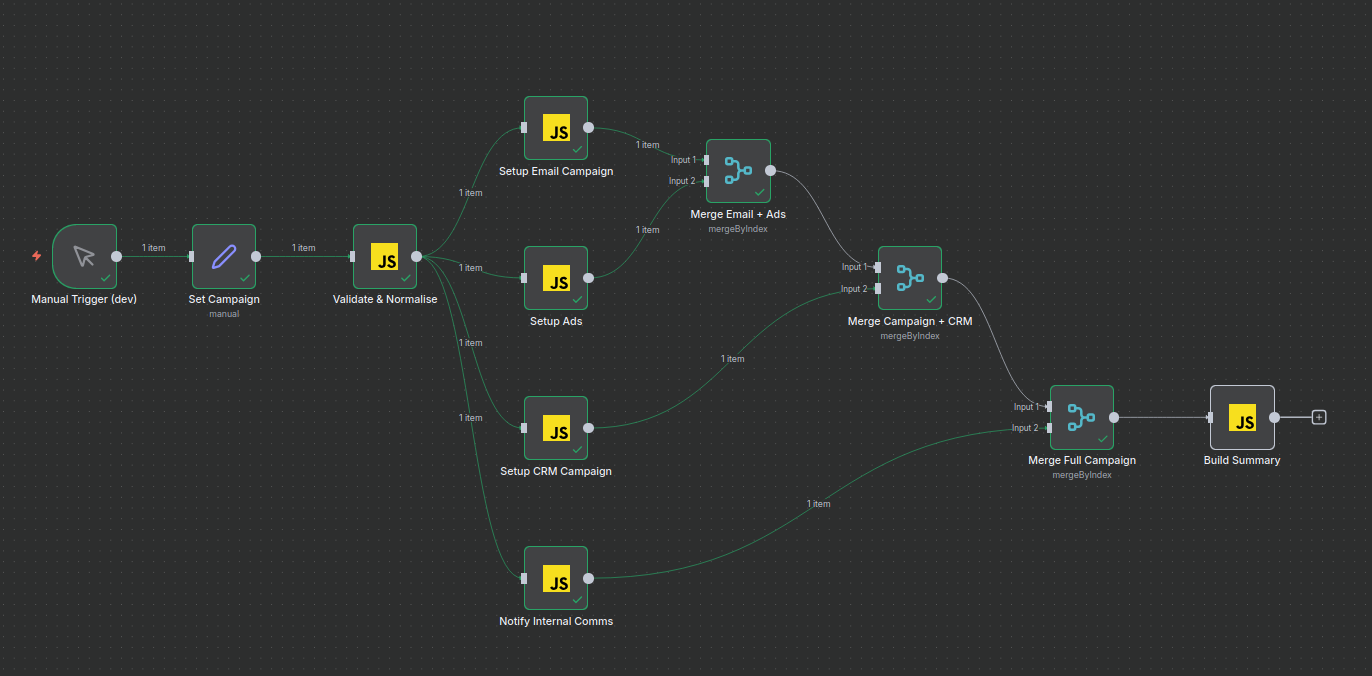
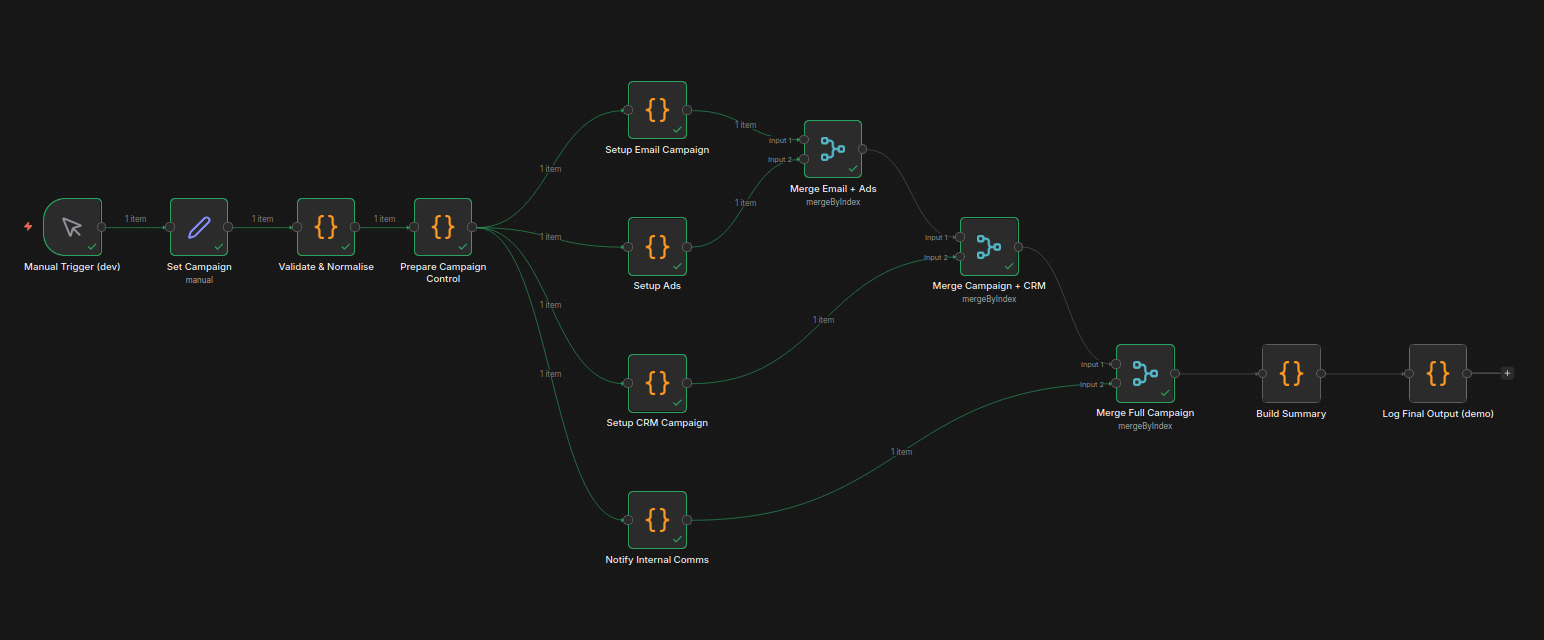
feat(workflow): strengthen marketing flow
Intent:
  - Add extra hardening and strengthen the Marketing workflow

Changes:
  - Each channel branch now wraps its work in try/catch and returns a structured result instead of
    crashing the whole run.
  - Final output now includes: overall_status: success, partial_success, or failed.
  - Prepare Campaign Control adds retrun policy metadata for real connector/API nodes.
  - Per-channel keys are generated from campaign ID, channel, and start date.
  - Added Log Final Output (demo) with an audit_record ready to replace/extend with DB, Drive,
    Notion, Sheets, object storage, etc.
  - Example input/output now includes campaign_id, simulate_failures, partial-success examples,
    and audit-record shape.
  - README updated to explain control layer, partial success, idempotency, retrues and audit
    requirements.

Evidence:
  - multi-channel_campaign_orchestrator.json imported to local n8n instance and individual steps
    executed

Risk/Notes:
  - Low. Workflows have been checked in local instance and steps execute with expected outputs as the
    result.

diff --git a/multi-channel-campaign-orchestrator/README.md b/multi-channel-campaign-orchestrator/README.md
@@ -1,68 +1,124 @@
 # Multi-Channel Campaign Orchestrator
 
-This n8n workflow turns a single campaign definition into coordinated setup activity across email, ads, CRM, and internal communications. It is currently connector-agnostic so can act as a reusable orchestration pattern rather than a fully deployed marketing automation integration.
+This workflow coordinates a marketing campaign across multiple channels  (email, ads, CRM, and internal comms) while preserving per-channel status, idempotency controls, and an audit-ready final output.
 
-<img src=examples/images/flow-executed-n8n.png alt="Successful execution in n8n"/>
-
-## What the workflow does
-
-The flow accepts one campaign payload containing the campaign name, audience segment, dates, budget, enabled channels, and goals. It validates and normalises that payload, fans out into parallel channel setup branches, then merges the results into a consolidated campaign summary.
-
-In the repository version, the external integrations are represented by Code nodes with placeholder outputs. That is deliberate: the template demonstrates the business process, data contract, and fan-out/fan-in pattern without requiring specific third-party credentials.
+It is designed as a connector-agnostic n8n template: the included Code nodes simulate the shape of real integrations, while the control layer shows how a client implementation should handle partial success, retries, duplicate prevention, and support visibility.
 
 ## Business value
 
-Campaign launches often become slow because marketing, sales, CRM, paid media, and internal comms teams each recreate the same campaign context in different tools. This workflow gives a client a controlled launch path:
+- Reduces manual campaign setup across several disconnected tools.
+- Keeps campaign metadata, timing, targeting, budget, and goals consistent across channels.
+- Prevents a single failed channel from hiding successful channel work.
+- Captures partial success states so operations, marketing, and leadership know exactly what was created and what needs intervention.
+- Establishes idempotency and audit patterns that are required before this kind of workflow should touch production marketing systems.
 
-- One approved campaign definition becomes the source of truth.
-- Setup work is executed consistently across channels.
-- The final summary gives stakeholders visibility into what was created, skipped, or needs attention.
-- The pattern can reduce handoff friction and make campaign launch governance easier to audit.
+## How this n8n flow works
 
-## How the flow works
+1. **Manual Trigger (dev)**
+   - Starts the workflow for local testing and portfolio demonstration.
+   - A production implementation would usually replace or supplement this with a Webhook, form submission, CRM trigger, or campaign approval trigger.
 
-1. `Manual Trigger (dev)` starts the workflow for local testing.
-2. `Set Campaign` creates an example campaign payload.
-3. `Validate & Normalise` checks required fields, parses budget, and converts JSON strings for `channels` and `goals` into objects.
-4. Four channel branches run after validation:
-   - `Setup Email Campaign`
-   - `Setup Ads`
-   - `Setup CRM Campaign`
-   - `Notify Internal Comms`
-5. `Merge Email + Ads`, `Merge Campaign + CRM`, and `Merge Full Campaign` combine the branches back into one enriched item.
-6. `Build Summary` creates a Markdown summary of the campaign setup result.
+2. **Set Campaign**
+   - Provides sample campaign data including campaign ID, audience, dates, budget, enabled channels, goals, and optional simulated failures.
+   - In production, this data would come from a campaign intake form, CRM, project-management tool, or campaign planning database.
+
+3. **Validate & Normalise**
+   - Confirms required fields are present.
+   - Parses numeric and JSON fields.
+   - Requires at least one enabled campaign channel.
+   - Normalises the payload before orchestration begins.
+
+4. **Prepare Campaign Control**
+   - Adds campaign-level control metadata:
+     - `campaign_id`
+     - per-channel idempotency keys
+     - generated timestamp
+     - retry policy metadata
+   - The idempotency keys are based on campaign/channel/date so a retried workflow can avoid duplicate campaign creation in external systems.
+
+5. **Parallel channel setup**
+   - The workflow fans out to four channel branches:
+     - `Setup Email Campaign`
+     - `Setup Ads`
+     - `Setup CRM Campaign`
+     - `Notify Internal Comms`
+   - Each branch catches its own errors and returns a structured channel result instead of crashing the full workflow.
+   - Channel outputs include:
+     - `status`: `success`, `failed`, or `skipped`
+     - `idempotency_key`
+     - retry policy metadata
+     - created placeholder entity IDs
+     - error message when a branch fails
+
+6. **Fan-in merge**
+   - Merge nodes bring the branch outputs back together.
+   - The workflow keeps each channel result visible for final reporting.
+
+7. **Build Summary**
+   - Builds a Markdown campaign summary.
+   - Captures the overall result as:
+     - `success`
+     - `partial_success`
+     - `failed`
+   - Lists each channel's status, idempotency key, and any failure reason.
+
+8. **Log Final Output (demo)**
+   - Creates an `audit_record` containing:
+     - final status
+     - channel results
+     - idempotency keys
+     - retry policy
+     - source campaign payload
+     - final summary
+   - This node is a demo-safe placeholder. In production, replace or extend it with a durable store such as Postgres, Airtable, Google Sheets, Google Drive, Notion, object storage, or a ticketing/support system.
 
 ## Client-specific implementation requirements
 
-A production implementation should replace the placeholder Code nodes with real connectors or HTTP calls:
+For a real client deployment, the placeholder Code nodes should be replaced with actual connector or HTTP nodes:
 
-| Area | Example production replacement |
-| --- | --- |
-| Trigger | Webhook from an approval form, CRM stage change, Airtable/Notion form, or scheduled campaign intake process. |
-| Campaign input | CRM, database, spreadsheet, form submission, project-management record, or marketing ops platform. |
-| Email branch | Mailchimp, HubSpot, Customer.io, Klaviyo, ActiveCampaign, or custom email API. |
-| Ads branch | Google Ads, Meta Ads, LinkedIn Ads, or a media agency intake endpoint. |
-| CRM branch | HubSpot, Salesforce, Pipedrive, Attio, or internal CRM API. |
-| Internal comms | Slack, Microsoft Teams, email, or ticket creation. |
-| Final summary | Slack message, email, database log, campaign record update, or reporting dashboard. |
+   - Email platform: Mailchimp, HubSpot, Customer.io, Klaviyo, SendGrid, etc.
+   - Ads platforms: Meta Ads, Google Ads, LinkedIn Ads, or agency tooling.
+   - CRM: HubSpot, Salesforce, Pipedrive, Zoho, etc.
+   - Internal comms: Slack, Microsoft Teams, email, or a campaign launch channel.
+   - Durable audit store: database, spreadsheet, document store, object storage, or support/ticketing system.
 
-The client version should also define ownership rules: which team owns campaign approval, who receives failure notifications, and what data is authoritative when systems disagree.
+Each external integration should use the generated idempotency key when the destination system supports it. Where the destination does not support native idempotency, store request fingerprints in your audit database and check for existing records before creating new entities.
 
 ## Concurrency and error handling
 
-The core shape is correct: validate once, fan out, then fan back in. For production, strengthen the control layer:
+The channel setup branches run in parallel after `Prepare Campaign Control`.
 
-   - Add per-branch error handling so one failed channel does not hide the status of the other branches.
-   - Capture partial success states in the final summary.
-   - Add retry policies for external APIs with rate limits or transient failures.
-   - Use idempotency keys based on campaign ID to avoid duplicate campaign creation after retries.
-   - Log the final output to a durable store for audit and support.
+The control layer includes:
+
+   - Per-branch error handling so one failed channel does not hide the status of other branches.
+   - Partial success capture in `channel_results` and `summary_markdown`.
+   - Retry policy metadata for external APIs with rate limits or transient failures.
+   - Per-channel idempotency keys to reduce duplicate campaign creation after retries.
+   - Final audit record generation after summary creation.
+
+For production, configure retries on the actual HTTP/native connector nodes. Recommended baseline:
+
+   - Retry on `429`, `408`, network timeout, and `5xx` responses.
+   - Do not blindly retry validation errors or `4xx` client errors.
+   - Use exponential backoff and a maximum attempt count.
+   - Persist every external creation response and request fingerprint to a durable store.
+   - Alert on `partial_success` or `failed` so the campaign owner knows which channel needs manual action.
 
 ## Example data
 
-Example input and output files live in `examples/`:
+Example files are in `examples/`:
 
-- `examples/sample_input.md`
-- `examples/sample_output.md`
+- `examples/sample_input.md` — sample campaign intake payload.
+- `examples/sample_output.md` — sample final summary and audit shape.
 
-The workflow currently uses the same shape as the sample input inside the `Set Campaign` node.
+## Demo notes
+
+The included workflow is connector-agnostic. It demonstrates the orchestration and control pattern without requiring live credentials.
+
+To test partial success handling, set `simulate_failures` in `Set Campaign` to something like:
+
+```json
+{"ads": true}
+```
+
+The ads branch will return a failed status while the other branches continue and the final summary will show `partial_success`.

diff --git a/README.md b/README.md
@@ -2,7 +2,7 @@
 
 Example n8n workflows for practical business automation use cases. Each workflow is designed as a connector-agnostic starting point that can be adapted for a specific client stack.
 
-The repository is intentionally structured like a small automation catalogue rather than a random dump of n8n exports. Every workflow includes:
+The repository is structured like a small automation catalogue rather than a random dump of n8n exports. Every workflow includes:
 
 - A workflow-specific `README.md` explaining what it does, why it matters, how it works, implementation requirements, concurrency/error handling, and examples.
 - An importable n8n workflow `.json` file.

diff --git a/reports-weekly-status-local-llm/README.md b/reports-weekly-status-local-llm/README.md
@@ -64,7 +64,7 @@ This repository version now includes demo-friendly versions of the production co
 
 ## Concurrency and error handling
 
-This is intentionally a mostly linear reporting workflow because the report needs a clear source-to-output chain. The high-risk points are input quality, LLM availability, response-shape mismatch, and email delivery.
+This is a mostly linear reporting workflow because the report needs a clear source-to-output chain. The high-risk points are input quality, LLM availability, response-shape mismatch, and email delivery.
 
 Current handling:
 